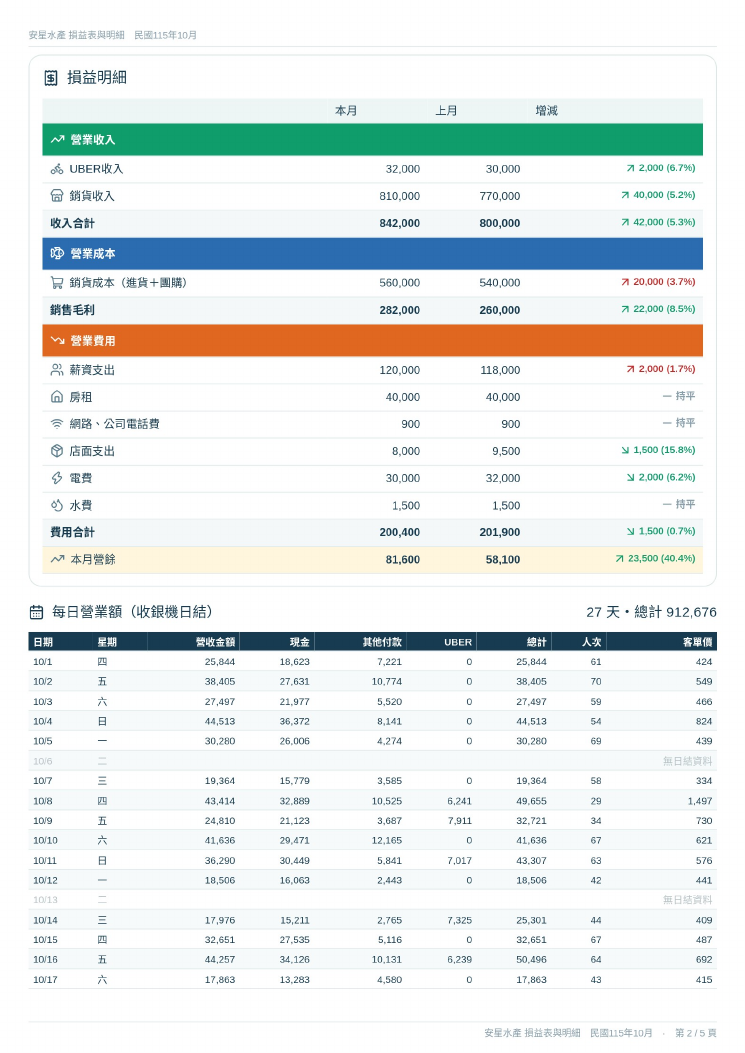
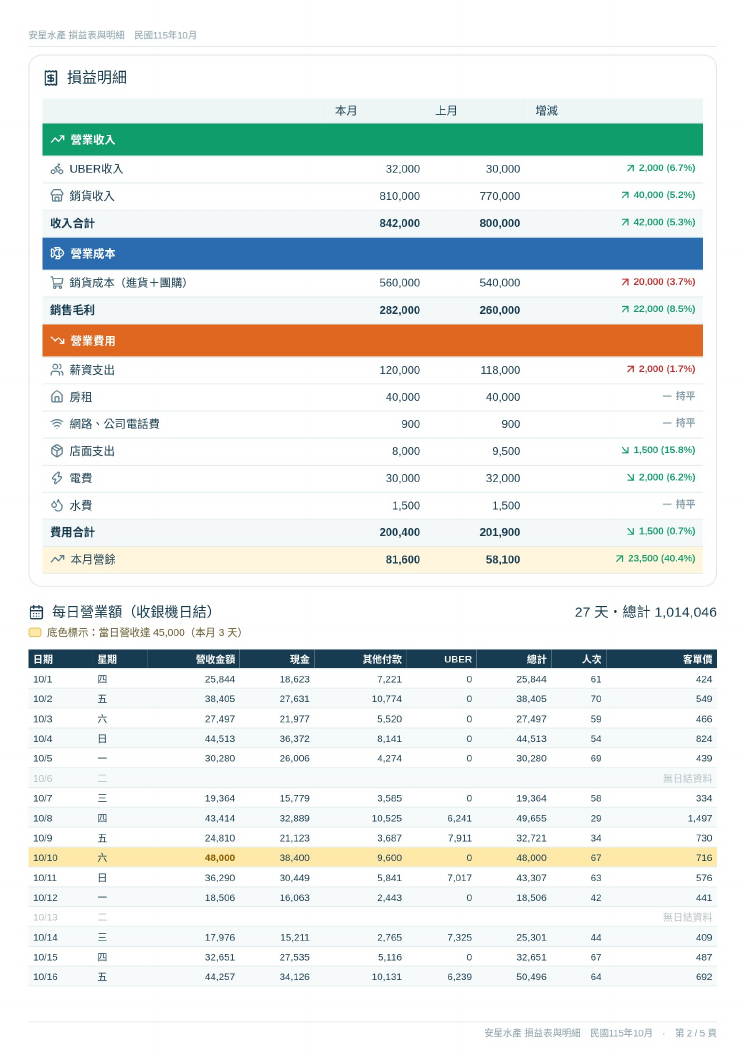
每日營業額：單日營收達 45,000 整列底色＋說明（網頁、PDF）；Excel 加「營收達 45,000」★ 欄；門檻統一為 HIGH_SALES_DAY

diff --git a/web/src/admin/ledger-pnl.tsx b/web/src/admin/ledger-pnl.tsx
@@ -2,6 +2,7 @@ import {useEffect,useRef,useState,type ReactNode} from "react";
 import {ArrowDownRight,ArrowUpRight,Banknote,Bike,Building2,CalendarDays,ChartColumn,ChartPie,CircleDollarSign,Coins,Droplets,Fish,Flame,HandCoins,Hammer,Home,Landmark,Minus,Package,Percent,PiggyBank,Printer,Receipt,FileSpreadsheet,FileText,Scale,ShoppingCart,Store,StickyNote,TrendingDown,TrendingUp,Truck,Users,Wallet,Wifi,Wrench,Zap} from "lucide-react";
 import {inventoryFetch} from "../lib/pages-api";
 import {errorText} from "../lib/api-config";
+import {HIGH_SALES_DAY} from "../lib/ledger-shared";
 
 async function api(path:string,body?:unknown){const r=await inventoryFetch("/api/ledger"+path,body===undefined?{}:{method:"POST",headers:{"Content-Type":"application/json"},body:JSON.stringify(body)});if(!r.ok)throw new Error(await errorText(r));return r.json()}
 const money=(n:number)=>(n<0?"-":"")+Math.abs(Math.round(n)).toLocaleString("en-US");
@@ -67,12 +68,12 @@ async function exportMonthPdf(root:HTMLElement,ym:string,onProgress:(s:string)=>
 async function exportMonth(ym:string,r:any){
  const [X,md]=await Promise.all([import("xlsx"),loadMonth(ym)]);const {last}=md;
  const W="日一二三四五六",R=(n:number)=>Math.round(n*100)/100;
- const posHead=["日期","星期","原銷售額","結帳折讓","現金","其他付款（刷卡／行動支付等）","消費人次","人均消費","營收金額","UBER","總計（營收＋UBER）","帳差（現金＋其他付款－營收）","資料來源"];
+ const posHead=["日期","星期","原銷售額","結帳折讓","現金","其他付款（刷卡／行動支付等）","消費人次","人均消費","營收金額","UBER","總計（營收＋UBER）","帳差（現金＋其他付款－營收）","資料來源",`營收達 ${HIGH_SALES_DAY.toLocaleString("en-US")}`];
  const posRows:any[][]=[];const t=md.posTotal,days=md.days,ent={total:md.entTotal};
  for(let d=1;d<=last;d++){const ds=`${ym}-${String(d).padStart(2,"0")}`,w=W[new Date(+ym.slice(0,4),+ym.slice(5)-1,d).getDay()],x:any=md.pos[d-1];
   if(!x){posRows.push([ds,w,"","","","","","","","","","","無日結資料"]);continue}
-  posRows.push([ds,w,R(x.gross),R(x.discount),R(x.cash),R(x.other_pay),x.customers,x.customers?R(x.revenue/x.customers):"",R(x.revenue),R(x.uber),R(x.revenue+x.uber),R(x.cash+x.other_pay-x.revenue),x.source??""])}
- posRows.push(["合計",`${days} 天`,R(t.gross),R(t.discount),R(t.cash),R(t.other_pay),t.customers,t.customers?R(t.revenue/t.customers):"",R(t.revenue),R(t.uber),R(t.revenue+t.uber),R(t.cash+t.other_pay-t.revenue),""]);
+  posRows.push([ds,w,R(x.gross),R(x.discount),R(x.cash),R(x.other_pay),x.customers,x.customers?R(x.revenue/x.customers):"",R(x.revenue),R(x.uber),R(x.revenue+x.uber),R(x.cash+x.other_pay-x.revenue),x.source??"",x.revenue>=HIGH_SALES_DAY?"★":""])}
+ posRows.push(["合計",`${days} 天`,R(t.gross),R(t.discount),R(t.cash),R(t.other_pay),t.customers,t.customers?R(t.revenue/t.customers):"",R(t.revenue),R(t.uber),R(t.revenue+t.uber),R(t.cash+t.other_pay-t.revenue),"",`${md.pos.filter((x:any)=>x&&x.revenue>=HIGH_SALES_DAY).length} 天`]);
  const entHead=["日期","收支","會計項目","內容","備註","數量","單價","稅金","金額","收入","支出","客戶/廠商","員工","付款方式","銀行","入帳日","記錄人","來源"];
  const es=md.entries;
  const entRows=es.map((e:any)=>[e.date,e.kind,e.category,e.item,e.note,e.qty,e.unitPrice,e.tax||"",R(e.amount),e.signed>0?R(e.signed):"",e.signed<0?R(-e.signed):"",e.party,e.staff,e.payMethod,e.bank,e.postedDate,e.recorder,e.source]);
@@ -84,7 +85,7 @@ async function exportMonth(ym:string,r:any){
   ["收支紀錄","金額"],["筆數",ent.total.count],["收入合計",R(ent.total.income)],["支出合計",R(-ent.total.expense)],["淨額",R(ent.total.net)],[],
   ["說明：損益表的營業收入取自收支紀錄（店面收入／UBER收入），每日營業額工作表為收銀機日結，兩者可互相核對。"]];
  const wb=X.utils.book_new(),add=(name:string,aoa:any[][],cols:number[])=>{const ws=X.utils.aoa_to_sheet(aoa);ws["!cols"]=cols.map(w=>({wch:w}));X.utils.book_append_sheet(wb,ws,name)};
- add("摘要",sum,[30,16]);add("每日營業額",[posHead,...posRows],[12,6,11,10,11,16,9,9,11,10,14,16,10]);add("收支紀錄",[entHead,...entRows],[12,6,12,18,24,6,10,8,11,11,11,14,8,10,10,12,8,8]);
+ add("摘要",sum,[30,16]);add("每日營業額",[posHead,...posRows],[12,6,11,10,11,16,9,9,11,10,14,16,10,12]);add("收支紀錄",[entHead,...entRows],[12,6,12,18,24,6,10,8,11,11,11,14,8,10,10,12,8,8]);
  X.writeFile(wb,`安星水產_${ym}_每日營業額與收支紀錄.xlsx`);
  return {days,entries:es.length};
 }

diff --git a/web/src/admin/ledger-pdf.ts b/web/src/admin/ledger-pdf.ts
@@ -4,6 +4,7 @@
  * 表格逐列排版、放不下就換頁並重複表頭（不會把一列切成兩半），
  * 每頁用 html2canvas-pro 轉成 JPEG，再寫成 PDF。html2canvas-pro 只在按下按鈕時才載入。
  */
+import {HIGH_SALES_DAY, HIGH_SALES_NOTE} from "../lib/ledger-shared";
 const PAGE_W = 794, PAGE_H = 1123, PAD = 30; // A4 @96dpi（CSS px）
 const FOOT = 26;
 const money = (n: number) => (n < 0 ? "-" : "") + Math.abs(Math.round(n)).toLocaleString("en-US");
@@ -50,7 +51,7 @@ function paginate(host: HTMLElement, blocks: Block[], header: string) {
     if ("node" in b) { body.appendChild(b.node); if (!fits() && body.childElementCount > 1) { b.node.remove(); newPage(); body.appendChild(b.node); } continue; }
     const rows = [...b.table.tBodies[0].rows];
     const start = (cont: boolean) => {
-      const title = b.title.cloneNode(true) as HTMLElement; if (cont) title.appendChild(el("small", "pdf-cont", "（續）"));
+      const title = b.title.cloneNode(true) as HTMLElement; if (cont) (title.querySelector("h3") ?? title).appendChild(el("small", "pdf-cont", "（續）"));
       const t = b.table.cloneNode(false) as HTMLTableElement; t.appendChild(b.table.tHead!.cloneNode(true)); const tb = el("tbody"); t.appendChild(tb);
       body.appendChild(title); body.appendChild(t); return {title, t, tb};
     };
@@ -110,9 +111,12 @@ export async function exportMonthPdf(root: HTMLElement, d: MonthData, onProgress
     });
     const t = d.posTotal;
     posRows.push(["合計", `${d.days} 天`, money(t.revenue), money(t.cash), money(t.other_pay), money(t.uber), money(t.revenue + t.uber), t.customers, t.customers ? money(t.revenue / t.customers) : ""]);
-    const posT = buildTable(["日期", "星期", "營收金額", "現金", "其他付款", "UBER", "總計", "人次", "客單價"], posRows, "pdf-pos", i => i === posRows.length - 1 ? "sum" : d.pos[i] ? "" : "none");
-    const posTitle = el("h3", "pl-h pdf-h"); posTitle.innerHTML = ICON_CAL; posTitle.append(`每日營業額（收銀機日結）`); posTitle.appendChild(el("span", "pl-h-r", `${d.days} 天・總計 ${money(t.revenue + t.uber)}`));
-    blocks.push({table: posT, title: posTitle});
+    const posT = buildTable(["日期", "星期", "營收金額", "現金", "其他付款", "UBER", "總計", "人次", "客單價"], posRows, "pdf-pos", i => i === posRows.length - 1 ? "sum" : !d.pos[i] ? "none" : d.pos[i].revenue >= HIGH_SALES_DAY ? "hi-day" : "");
+    const posTitle = el("h3", "pl-h pdf-h"); posTitle.innerHTML = ICON_CAL; posTitle.append(`每日營業額（收銀機日結）`); const hiN = d.pos.filter(x => x && x.revenue >= HIGH_SALES_DAY).length;
+    posTitle.appendChild(el("span", "pl-h-r", `${d.days} 天・總計 ${money(t.revenue + t.uber)}`));
+    const posHead = el("div", "pdf-tblhead"); posHead.appendChild(posTitle);
+    const note = el("p", "hi-note"); note.appendChild(el("i")); note.append(`${HIGH_SALES_NOTE}（本月 ${hiN} 天）`); posHead.appendChild(note);
+    blocks.push({table: posT, title: posHead});
 
     // 3) 收支紀錄
     const es = d.entries;

diff --git a/web/src/admin/ledger.tsx b/web/src/admin/ledger.tsx
@@ -1,7 +1,7 @@
 import {useEffect,useMemo,useState} from "react";
 import {inventoryFetch} from "../lib/pages-api";
 import {errorText} from "../lib/api-config";
-import {parseLedgerWorkbook,sheetsFromXlsx,parsePosRows,POS_FIELDS,type Parsed} from "../lib/ledger-shared";
+import {parseLedgerWorkbook,sheetsFromXlsx,parsePosRows,POS_FIELDS,HIGH_SALES_DAY,HIGH_SALES_NOTE,type Parsed} from "../lib/ledger-shared";
 import "./ledger.css";
 import {Payments,Cashout,Statement,accLabel} from "./ledger-recon";
 import {Pnl} from "./ledger-pnl";
@@ -126,8 +126,8 @@ function Pos(){
    {parsed.length>0&&<p className="admin-hint">第一天：{parsed[0].date}　營收 {money(parsed[0].revenue)}　最後一天：{parsed.at(-1).date}</p>}
    <div className="actions"><button className="primary" disabled={!parsed.length} onClick={commit}>匯入 {parsed.length} 天</button><button onClick={()=>setUp(null)}>取消</button></div></div>}
   {r&&<><div className="admin-card ledger-total"><span>營收 {money(tot("revenue"))}</span><span>UBER {money(tot("uber"))}</span><span>人次 {tot("customers")}</span><span>收支紀錄「店面收入」{money(r.ledger.shop)}</span><span>「UBER收入」{money(r.ledger.uber)}</span></div>
-   <div className="export-table"><table className="ledger-table num"><thead><tr><th>星期</th><th>日期</th><th>原銷售額</th><th>結帳折讓</th><th>現金</th><th>其他付款</th><th>消費人次</th><th>人均消費</th><th>營收金額</th><th>UBER</th><th>總計</th><th>帳差</th></tr></thead>
-    <tbody>{r.rows.map((x:any)=><tr key={x.sale_date}><td>{"日一二三四五六"[new Date(x.sale_date).getDay()]}</td><td>{x.sale_date}</td><td>{money(x.gross)}</td><td>{money(x.discount)}</td><td>{money(x.cash)}</td><td>{money(x.other_pay)}</td><td>{x.customers}</td><td>{x.customers?money(x.revenue/x.customers):""}</td><td>{money(x.revenue)}</td><td>{money(x.uber)}</td><td>{money(x.revenue+x.uber)}</td><td className={Math.round(x.cash+x.other_pay-x.revenue)?"neg":""}>{money(x.cash+x.other_pay-x.revenue)}</td></tr>)}</tbody></table></div></>}</>;
+   <p className="hi-note"><i/>{HIGH_SALES_NOTE}</p><div className="export-table"><table className="ledger-table num"><thead><tr><th>星期</th><th>日期</th><th>原銷售額</th><th>結帳折讓</th><th>現金</th><th>其他付款</th><th>消費人次</th><th>人均消費</th><th>營收金額</th><th>UBER</th><th>總計</th><th>帳差</th></tr></thead>
+    <tbody>{r.rows.map((x:any)=><tr key={x.sale_date} className={x.revenue>=HIGH_SALES_DAY?"hi-day":undefined}><td>{"日一二三四五六"[new Date(x.sale_date).getDay()]}</td><td>{x.sale_date}</td><td>{money(x.gross)}</td><td>{money(x.discount)}</td><td>{money(x.cash)}</td><td>{money(x.other_pay)}</td><td>{x.customers}</td><td>{x.customers?money(x.revenue/x.customers):""}</td><td>{money(x.revenue)}</td><td>{money(x.uber)}</td><td>{money(x.revenue+x.uber)}</td><td className={Math.round(x.cash+x.other_pay-x.revenue)?"neg":""}>{money(x.cash+x.other_pay-x.revenue)}</td></tr>)}</tbody></table></div></>}</>;
 }
 
 // ---------- 員工 ----------

diff --git a/web/src/admin/ledger.css b/web/src/admin/ledger.css
@@ -76,3 +76,8 @@ label.file{display:inline-flex;flex-direction:column;gap:4px;font-size:14px}.imp
 .pdf-ent td:nth-child(6){color:#0b6b3a}.pdf-ent td:nth-child(7){color:#b42318}
 /* 手機上產生 PDF 時，不套用手機版排版 */
 .pdf-page .pl-kpis .pl-kpi:last-child{grid-column:auto}.pdf-page .pl-legend{display:flex}.pdf-page .pl-tick{font-size:12px}.pdf-page .pl-kpi-ic{width:32px;height:32px}
+/* 單日營收達門檻（HIGH_SALES_DAY）整列底色 */
+.ledger-table tr.hi-day td,.pdf-t tbody tr.hi-day td{background:#ffe9a8}.ledger-table:not(.pdf-t) tr.hi-day td:nth-child(9),.pdf-t tr.hi-day td:nth-child(3){font-weight:700;color:#8a5a00}
+.pdf-t tbody tr.hi-day{background:#ffe9a8}
+.hi-note{display:flex;align-items:center;gap:6px;margin:4px 0 6px;font-size:12px;color:#6b5a2e}.hi-note i{display:inline-block;width:14px;height:10px;border-radius:3px;background:#ffe9a8;border:1px solid #e8c45a}
+.pdf-tblhead{display:flex;flex-direction:column}.pdf-tblhead .hi-note{font-size:11px;margin:2px 0 0}

diff --git a/web/src/lib/ledger-shared.ts b/web/src/lib/ledger-shared.ts
@@ -83,3 +83,7 @@ export function parseCashoutRows(rows:unknown[][]){
   out.push({date,time:s(time).slice(0,8),type,item:c.item>=0?s(r[c.item]):"",staff:c.staff>=0?s(r[c.staff]):"",amount})}
  return {rows:out,header:head};
 }
+
+/** 單日收銀機營收（revenue，不含 UBER）達此金額就標示底色；與薪資「當日業績獎金」門檻相同 */
+export const HIGH_SALES_DAY=45000;
+export const HIGH_SALES_NOTE=`底色標示：當日營收達 ${HIGH_SALES_DAY.toLocaleString("en-US")}`;
